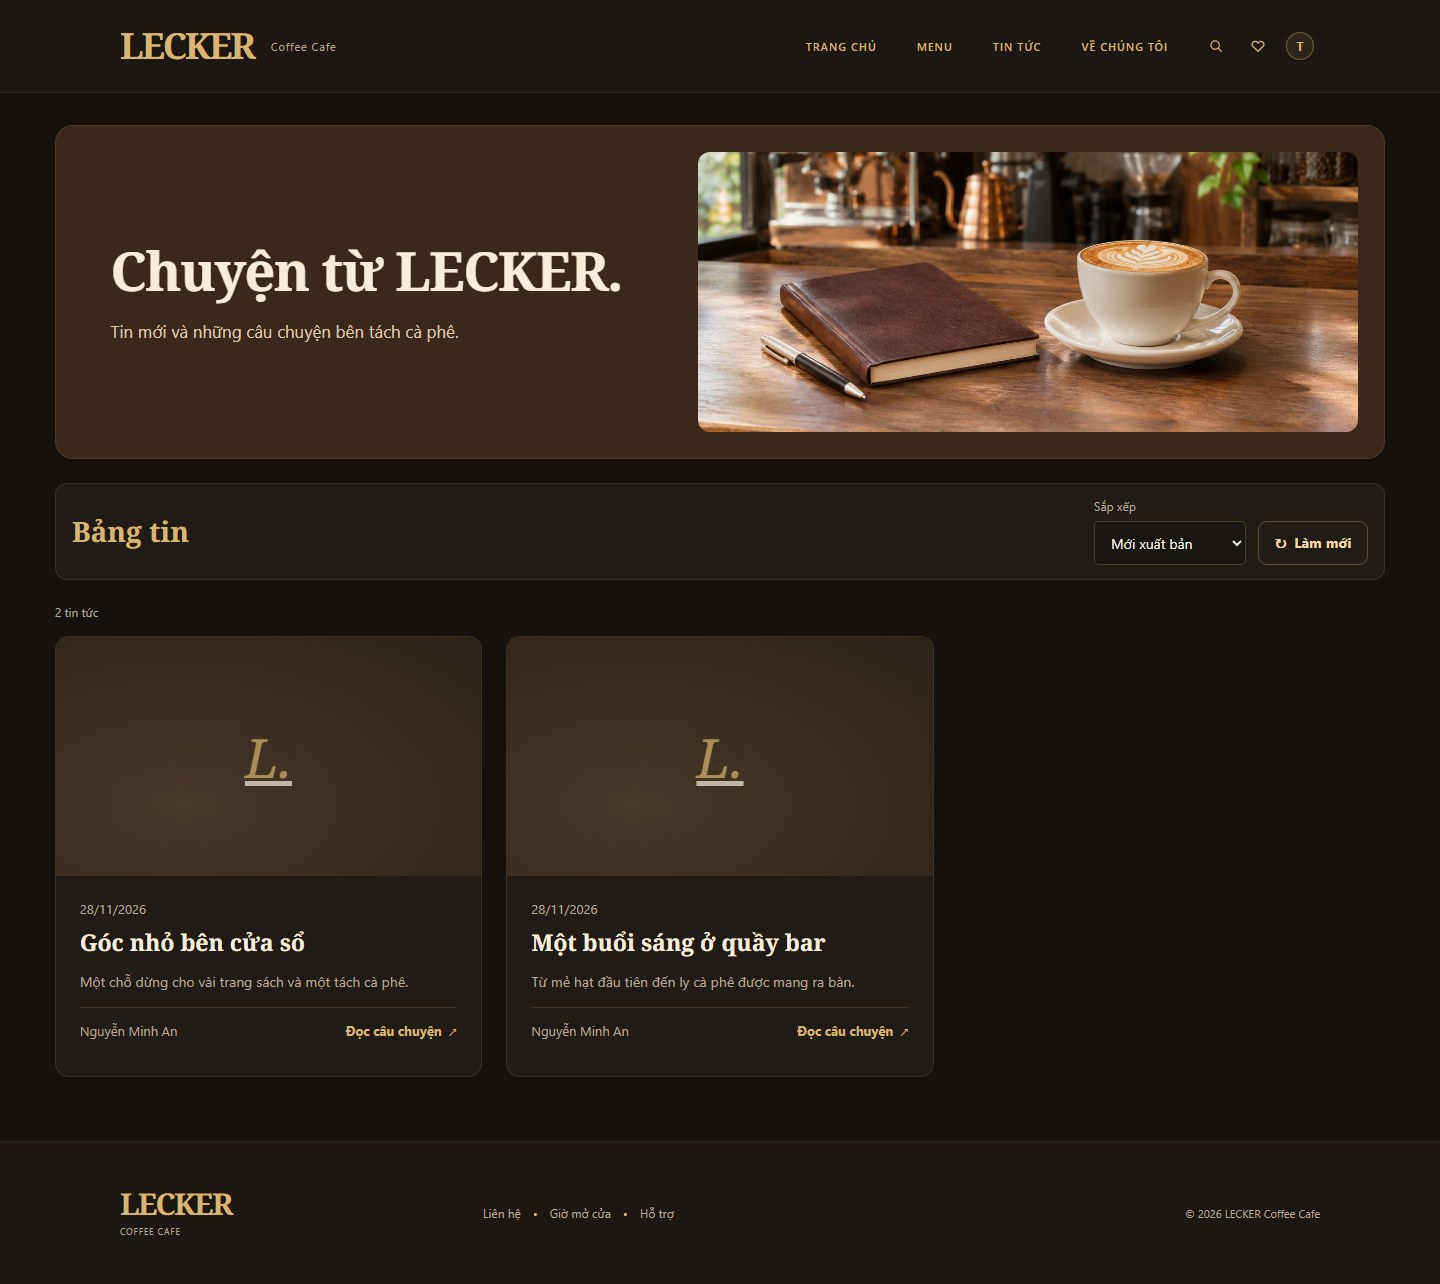
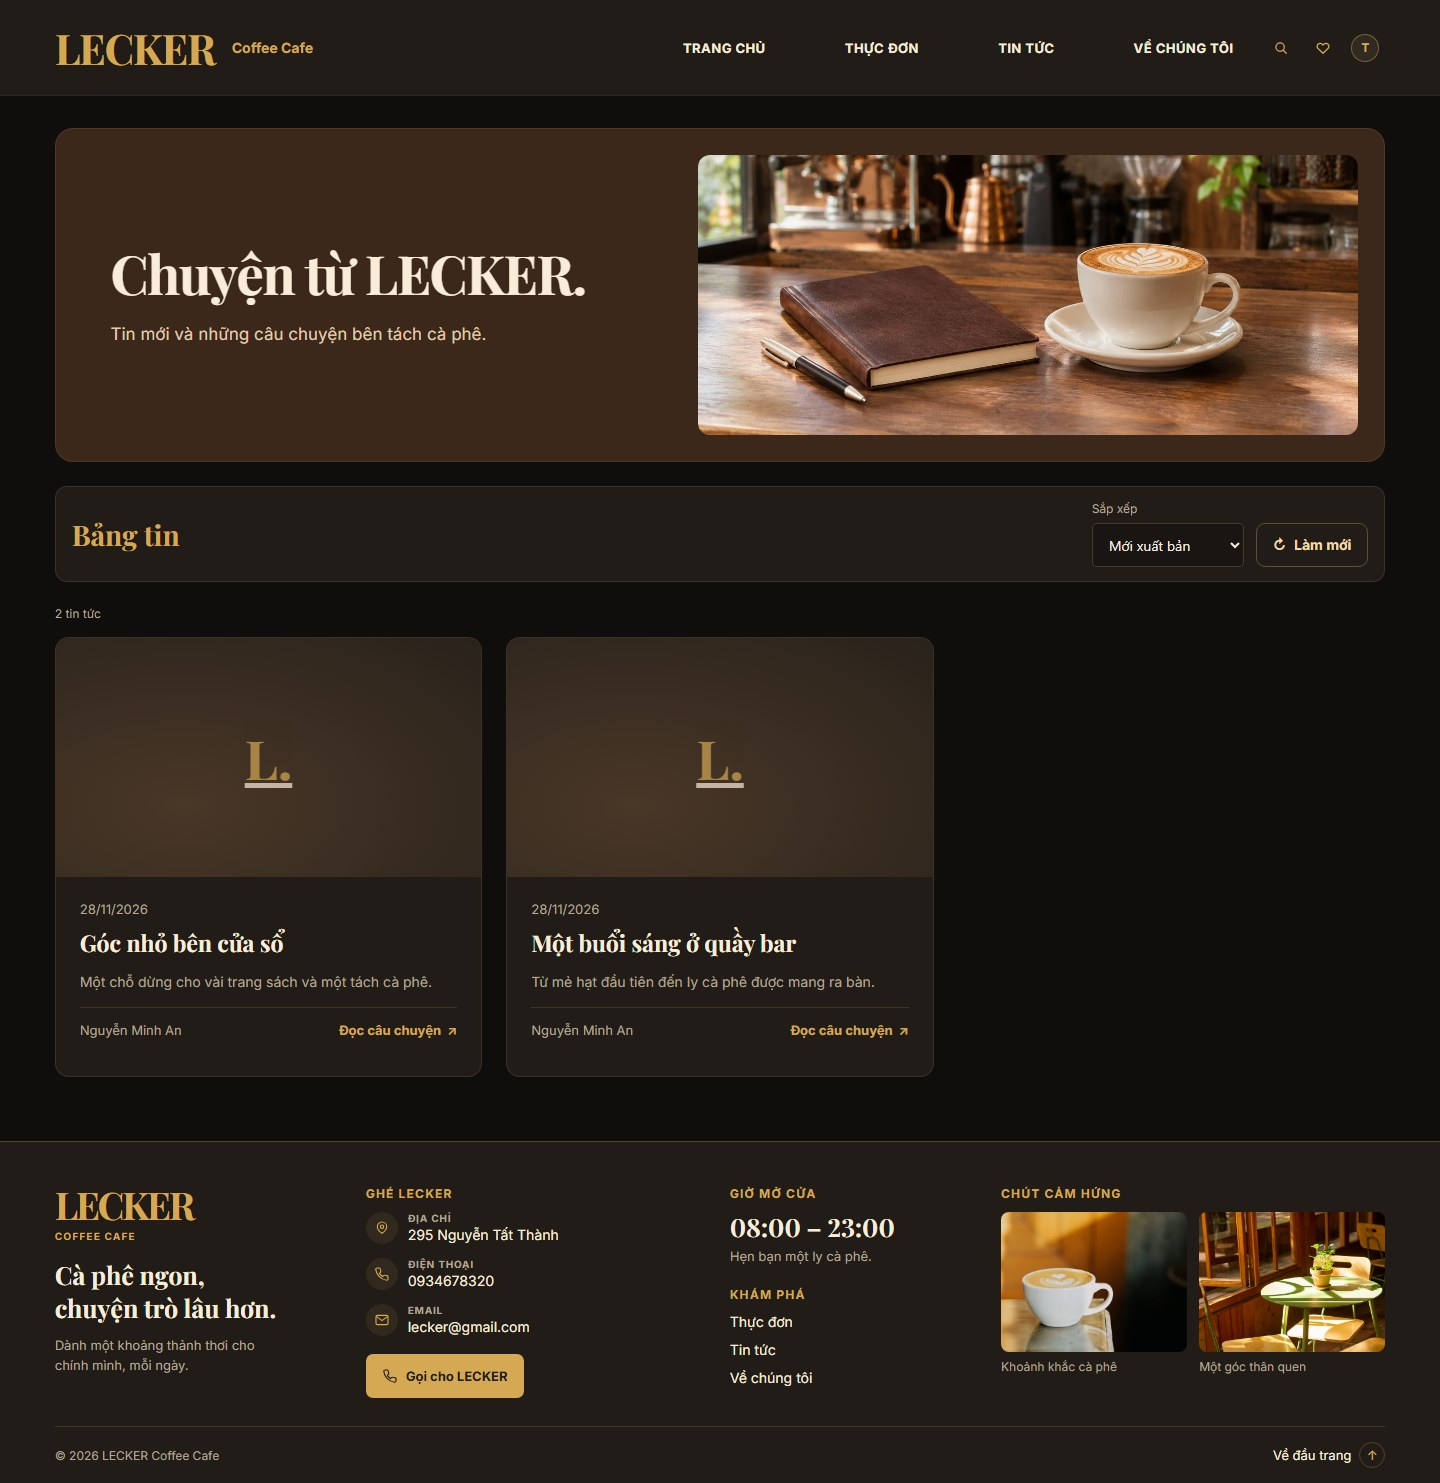
docs(news): CF-22 capture the updated footer in UI evidence

diff --git a/docs/handover/evidence/pr-34-round4/README.md b/docs/handover/evidence/pr-34-round4/README.md
@@ -10,7 +10,7 @@ Frontend `bugfix/cf-22_news-reliability`. Mốc trước Round 4 là `64edf6b`, 
 | [Chi tiết bài trên mobile](02-chi-tiet-mobile.jpg) | Nội dung bài dành cho khách hàng và bố cục hẹp. |
 | [Trình soạn desktop](03-trinh-soan-desktop.jpg) | ADMIN đọc bài có sẵn, thấy nội dung, trạng thái, nhóm nhận tin và khu vực ảnh. |
 
-Các ảnh được chụp trên Chromium bằng frontend của PR, Spring Boot và MySQL 8.0 trong schema local riêng có hậu tố `_test`. Tài khoản và hai bài viết trong ảnh là dữ liệu tổng hợp. Ảnh giữ chỗ minh họa dữ liệu chưa có ảnh đại diện.
+Các ảnh được chụp trên Chromium từ bản ghép thử cục bộ của #34 và #33, với header và footer mới của #33. Màn hình Tin tức đọc từ Spring Boot và MySQL 8.0 trong schema riêng có hậu tố `_test`. Tài khoản và hai bài viết là dữ liệu tổng hợp. Ảnh giữ chỗ minh họa bài chưa có ảnh đại diện.
 
 ## Kiểm thử Round 4
 
@@ -26,6 +26,6 @@ Bộ quét backend kiểm tra lại quyền STAFF mỗi 5 giây. Ping/pong ở t
 | `npm run test:unit` | Node 22.19 | 23 đạt. |
 | `npx playwright test news.spec.js login.spec.js` | Chromium desktop và mobile giả lập | 114 đạt, 0 lỗi. |
 | `mvnw.cmd -B -ntp "-Dtest=**/news/*Test.java" verify` | Java 21, MySQL 8.0 riêng, UTC | 89 đạt, 0 lỗi, 0 skip. |
-| Kiểm tra UI bằng trình duyệt với API và DB thực | Hai tài khoản tổng hợp CUSTOMER và ADMIN trong schema riêng | Mở bảng tin, chi tiết và trình soạn thành công. Xem ảnh phía trên. |
+| Kiểm tra UI trên bản ghép thử với API và DB thực | Hai tài khoản tổng hợp CUSTOMER và ADMIN trong schema riêng | Mở bảng tin, chi tiết và trình soạn thành công. Cả ba màn hình đều hiển thị footer mới với mục Ghé LECKER và hai ảnh. |
 
 CI của bản cập nhật được ghi trực tiếp trên [trang kiểm tra PR #34](https://github.com/DTU-TEAM-2/smart-cafe-management/pull/34/checks).
